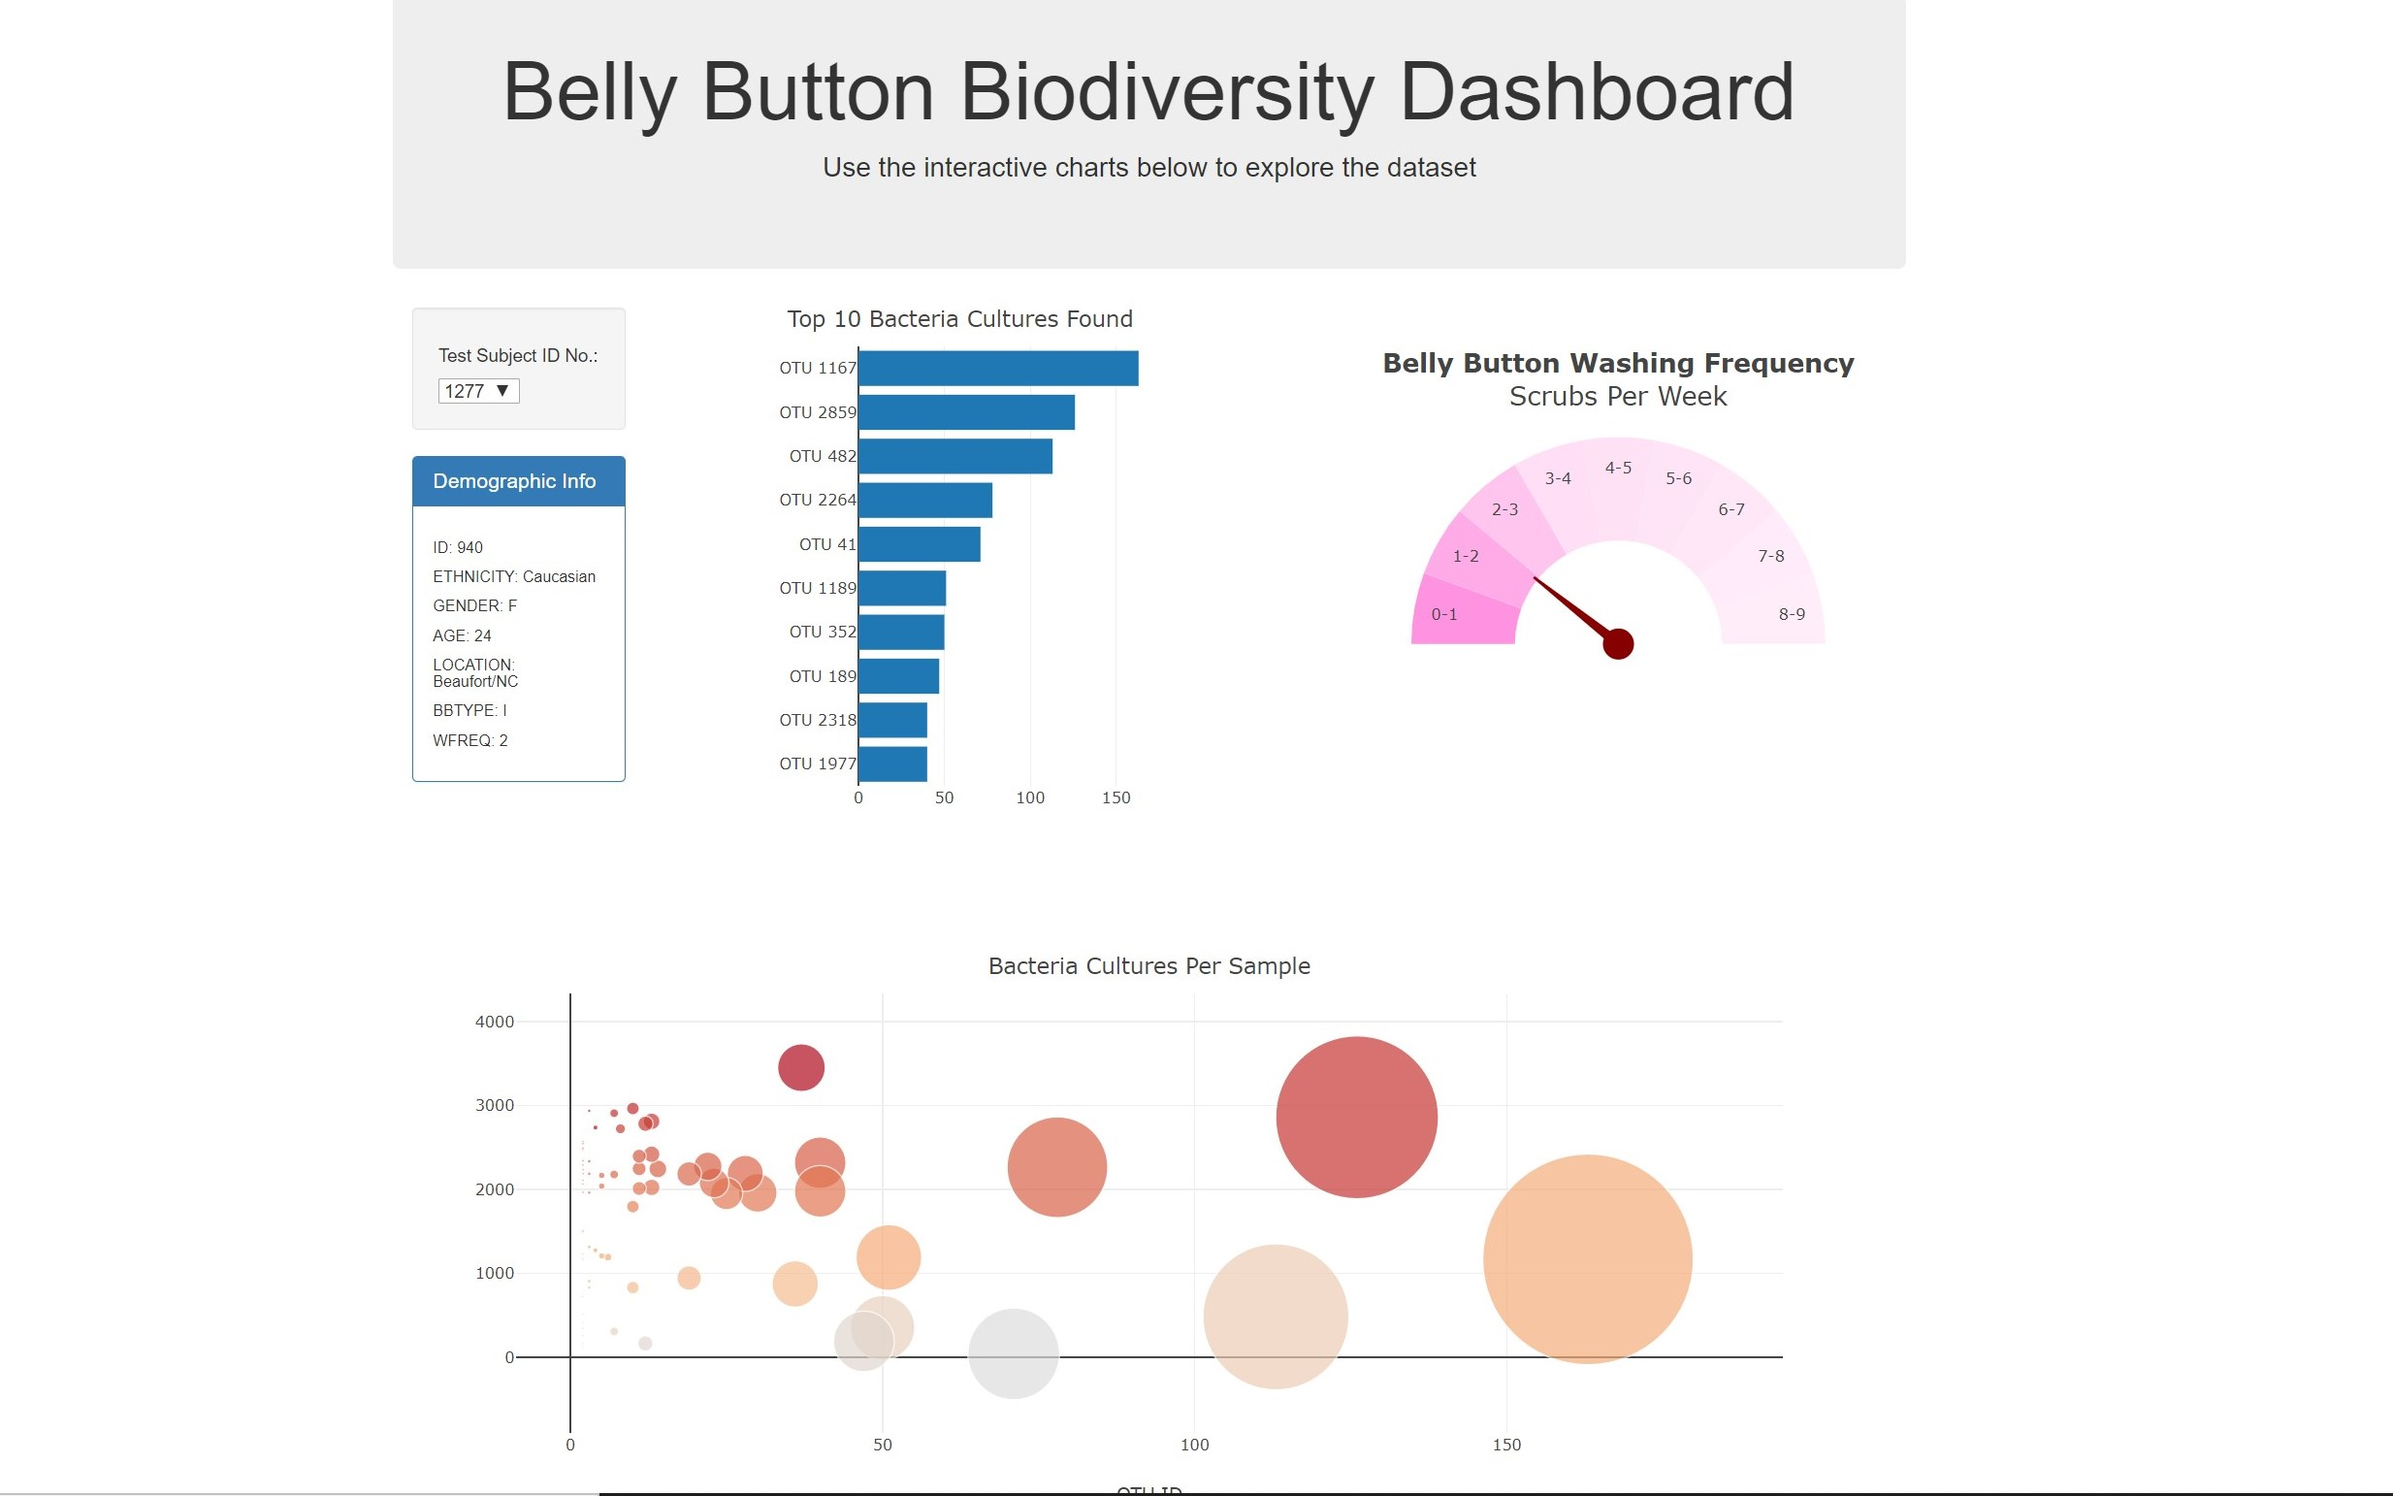
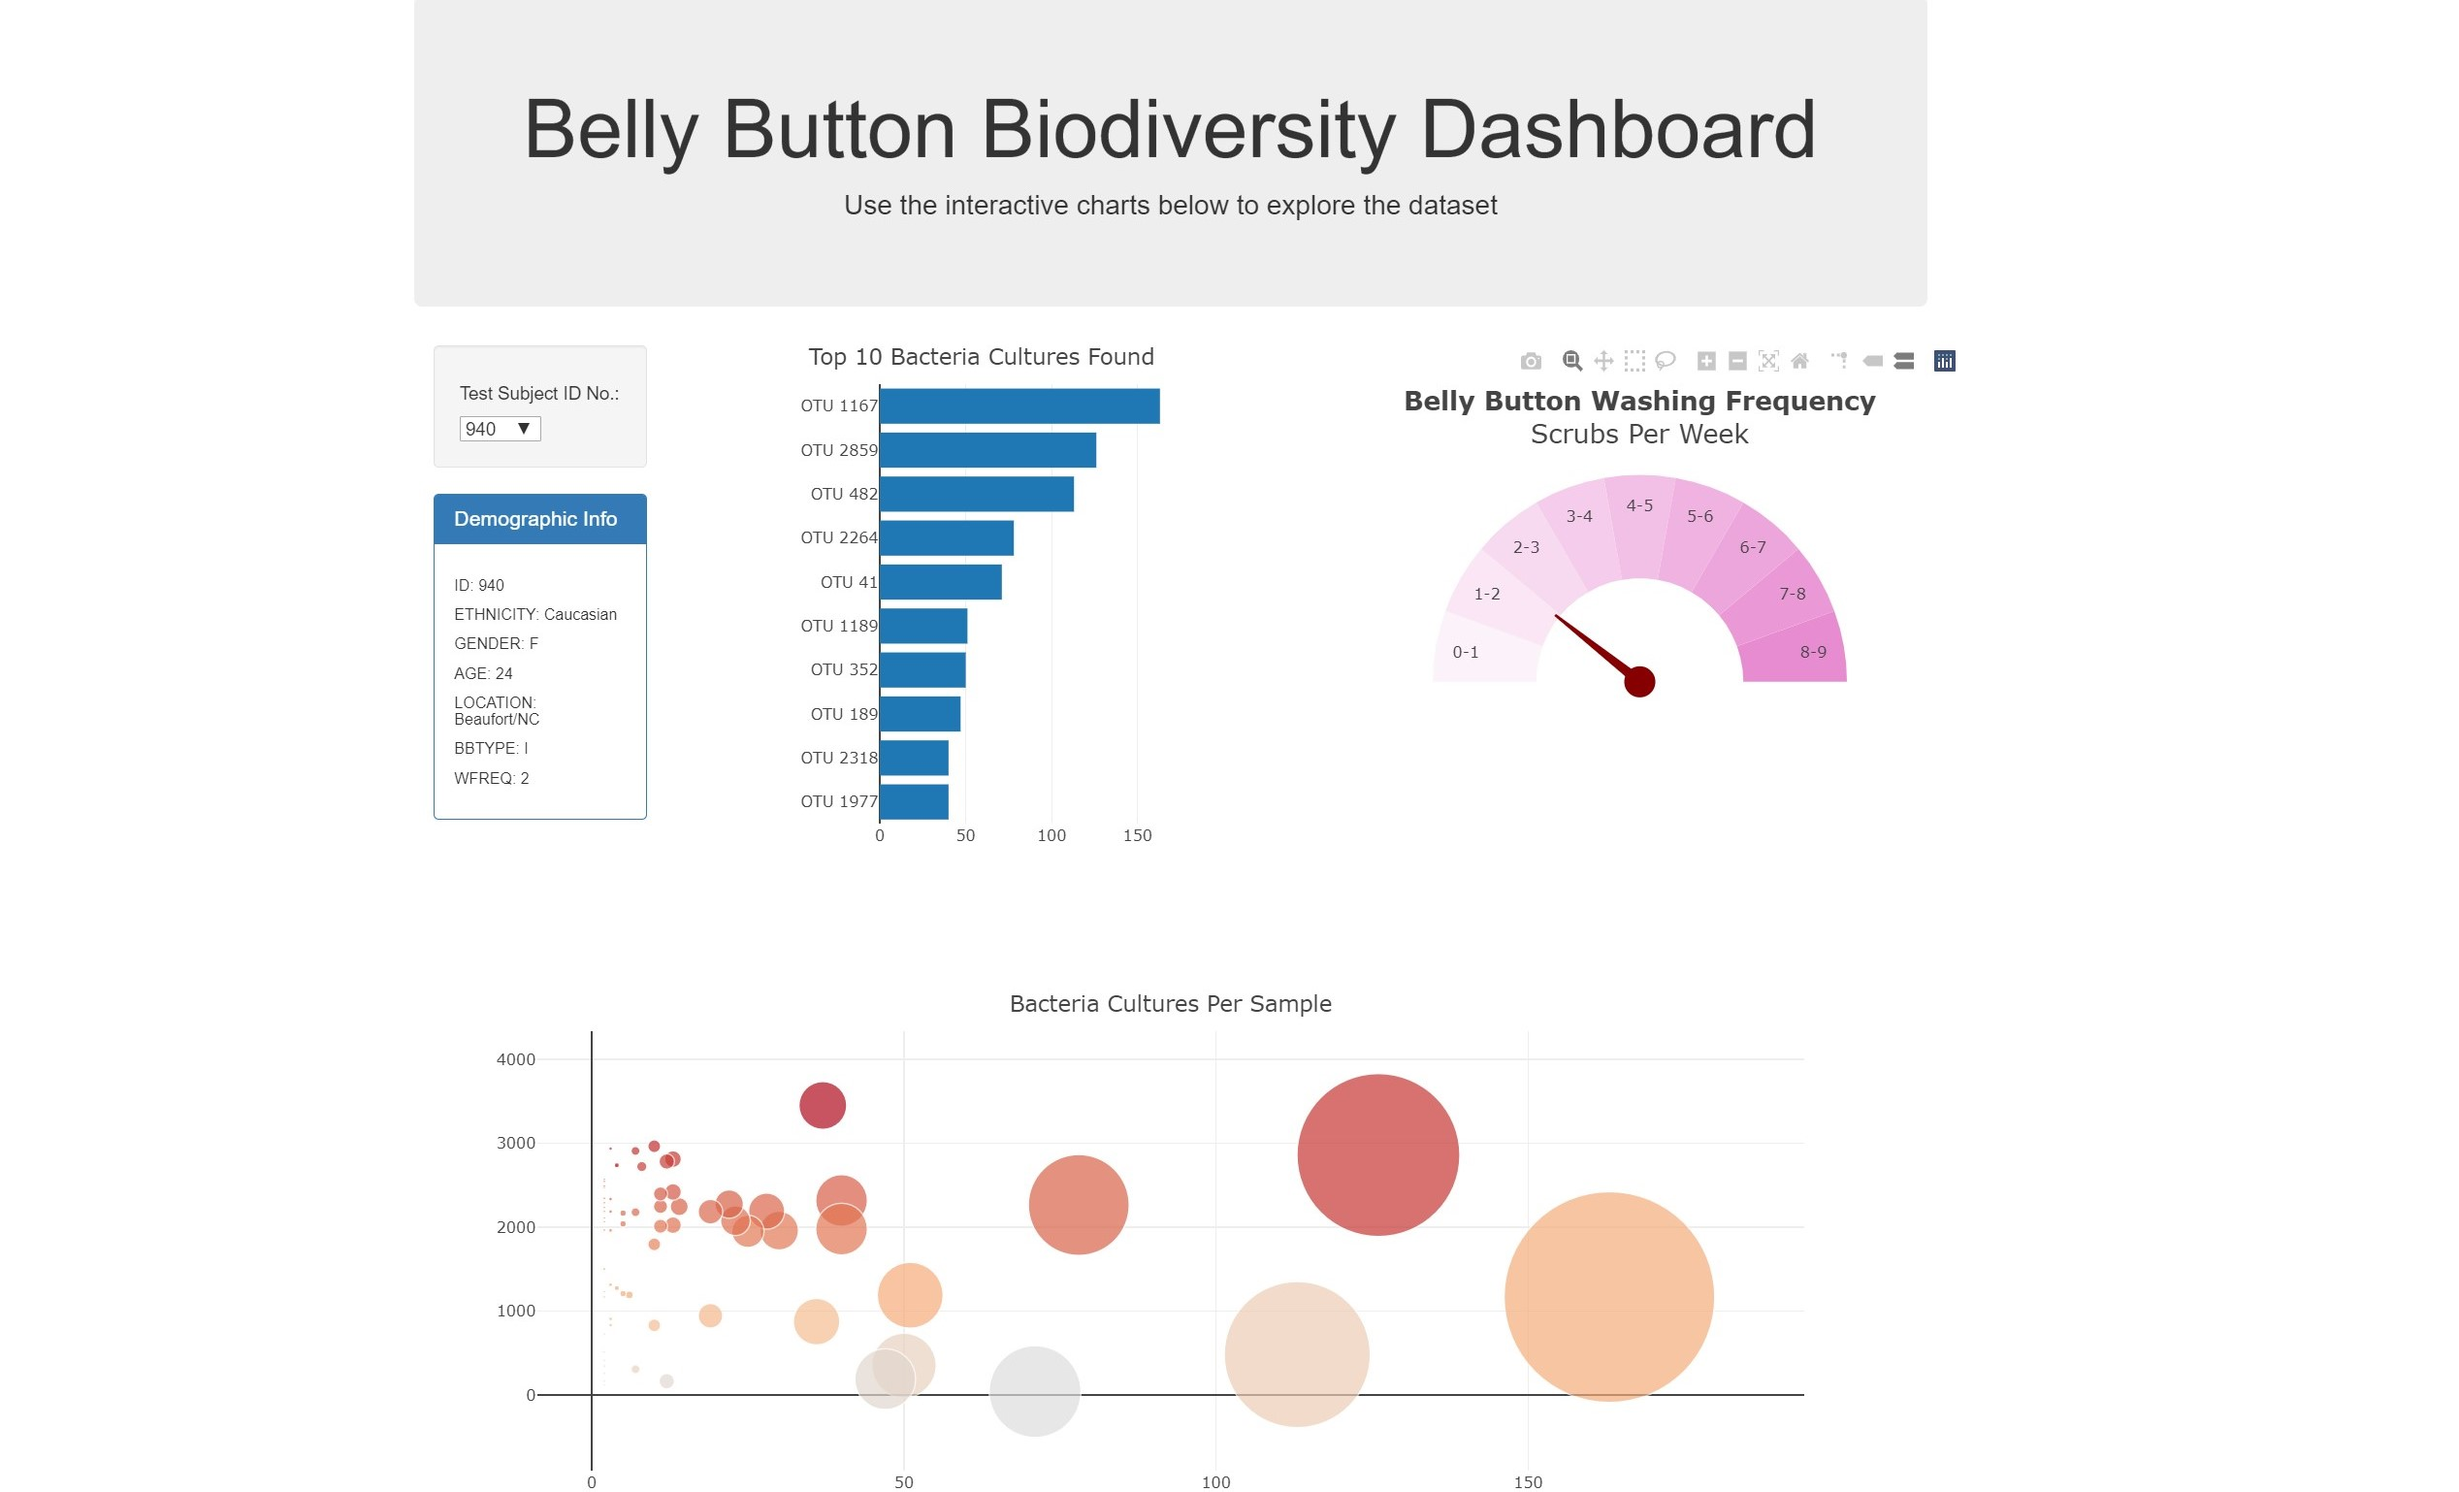
Challenge update

diff --git a/plots.js b/plots.js
@@ -139,15 +139,15 @@ function buildGauge(sample){
       textposition:'inside',
       direction: 'clockwise',
       marker: {
-        colors:['#ff92e1',
-        '#ffabe8',
-        '#ffc5ef',
-        '#ffdef6',
-        '#ffe1f6',
-        '#ffe4f7',
-        '#ffe7f8',
-        '#ffebf9',
-        '#ffeefa',
+        colors:['#fcf2fa',
+        '#fae6f5',
+        '#f7d9f0',
+        '#f5cceb',
+        '#f2bfe6',
+        '#f0b2e0',
+       '#eda6db',
+        '#eb99d6',
+        '#e88cd1',
         '#ffffff'
       ]                   
       },
